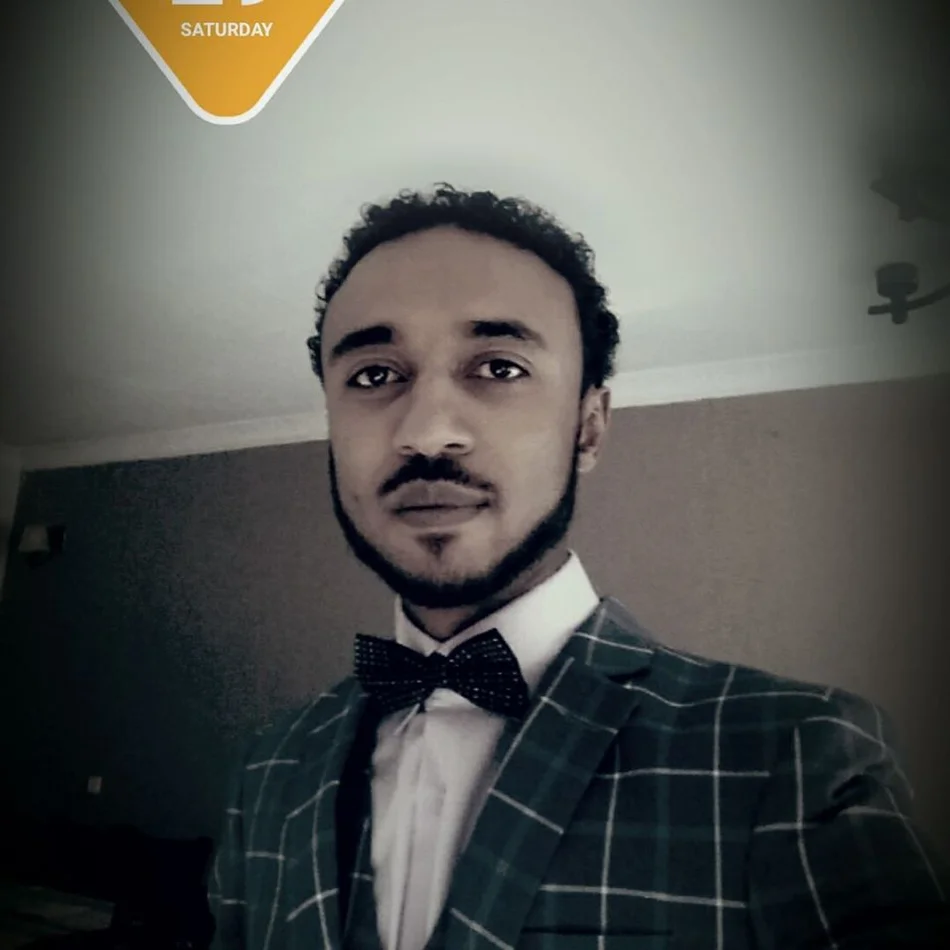
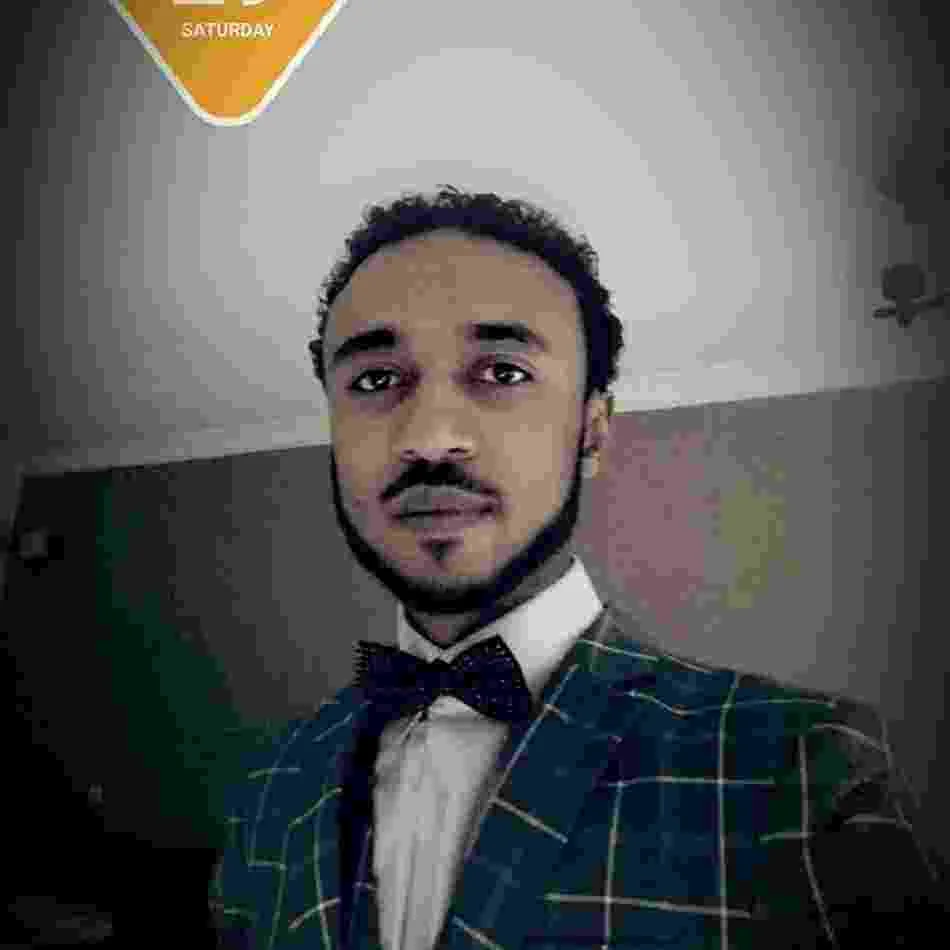
compressed image

diff --git a/index.html b/index.html
@@ -45,7 +45,7 @@
 
     <link rel="stylesheet" rel="preload" as="style"   href="https://maxcdn.bootstrapcdn.com/bootstrap/4.0.0/css/bootstrap.min.css" integrity="sha384-Gn5384xqQ1aoWXA+058RXPxPg6fy4IWvTNh0E263XmFcJlSAwiGgFAW/dAiS6JXm" crossorigin="anonymous">
     <link  rel="preload" as="style"  href="https://stackpath.bootstrapcdn.com/font-awesome/4.7.0/css/font-awesome.min.css" rel="stylesheet" integrity="sha384-wvfXpqpZZVQGK6TAh5PVlGOfQNHSoD2xbE+QkPxCAFlNEevoEH3Sl0sibVcOQVnN" crossorigin="anonymous"> 
-    <!-- <link  rel="preload" as="style"  href="https://fonts.googleapis.com/css?family=Roboto:400,700&display=swap" rel="stylesheet"> -->
+    
         <!-- mobile specific metas
       ================================================== -->
     <meta name="viewport" content="width=device-width, initial-scale=1, minimum-scale=1, maximum-scale=1" />
@@ -158,7 +158,7 @@
           <h1>Let me introduce myself.</h1>
 
           <div class="intro-info">
-            <img src="https://mikearaya.github.io/images/my_image.jpg" id="myimage" alt="Profile Picture" class="lazyload" />
+            <img src="https://mikearaya.github.io/images/my_image.webp" id="myimage" alt="Profile Picture" class="lazyload" />
 
             <p class="lead">
               Software developer with a CS background that lives in Addis Ababa, Ethiopia. 
